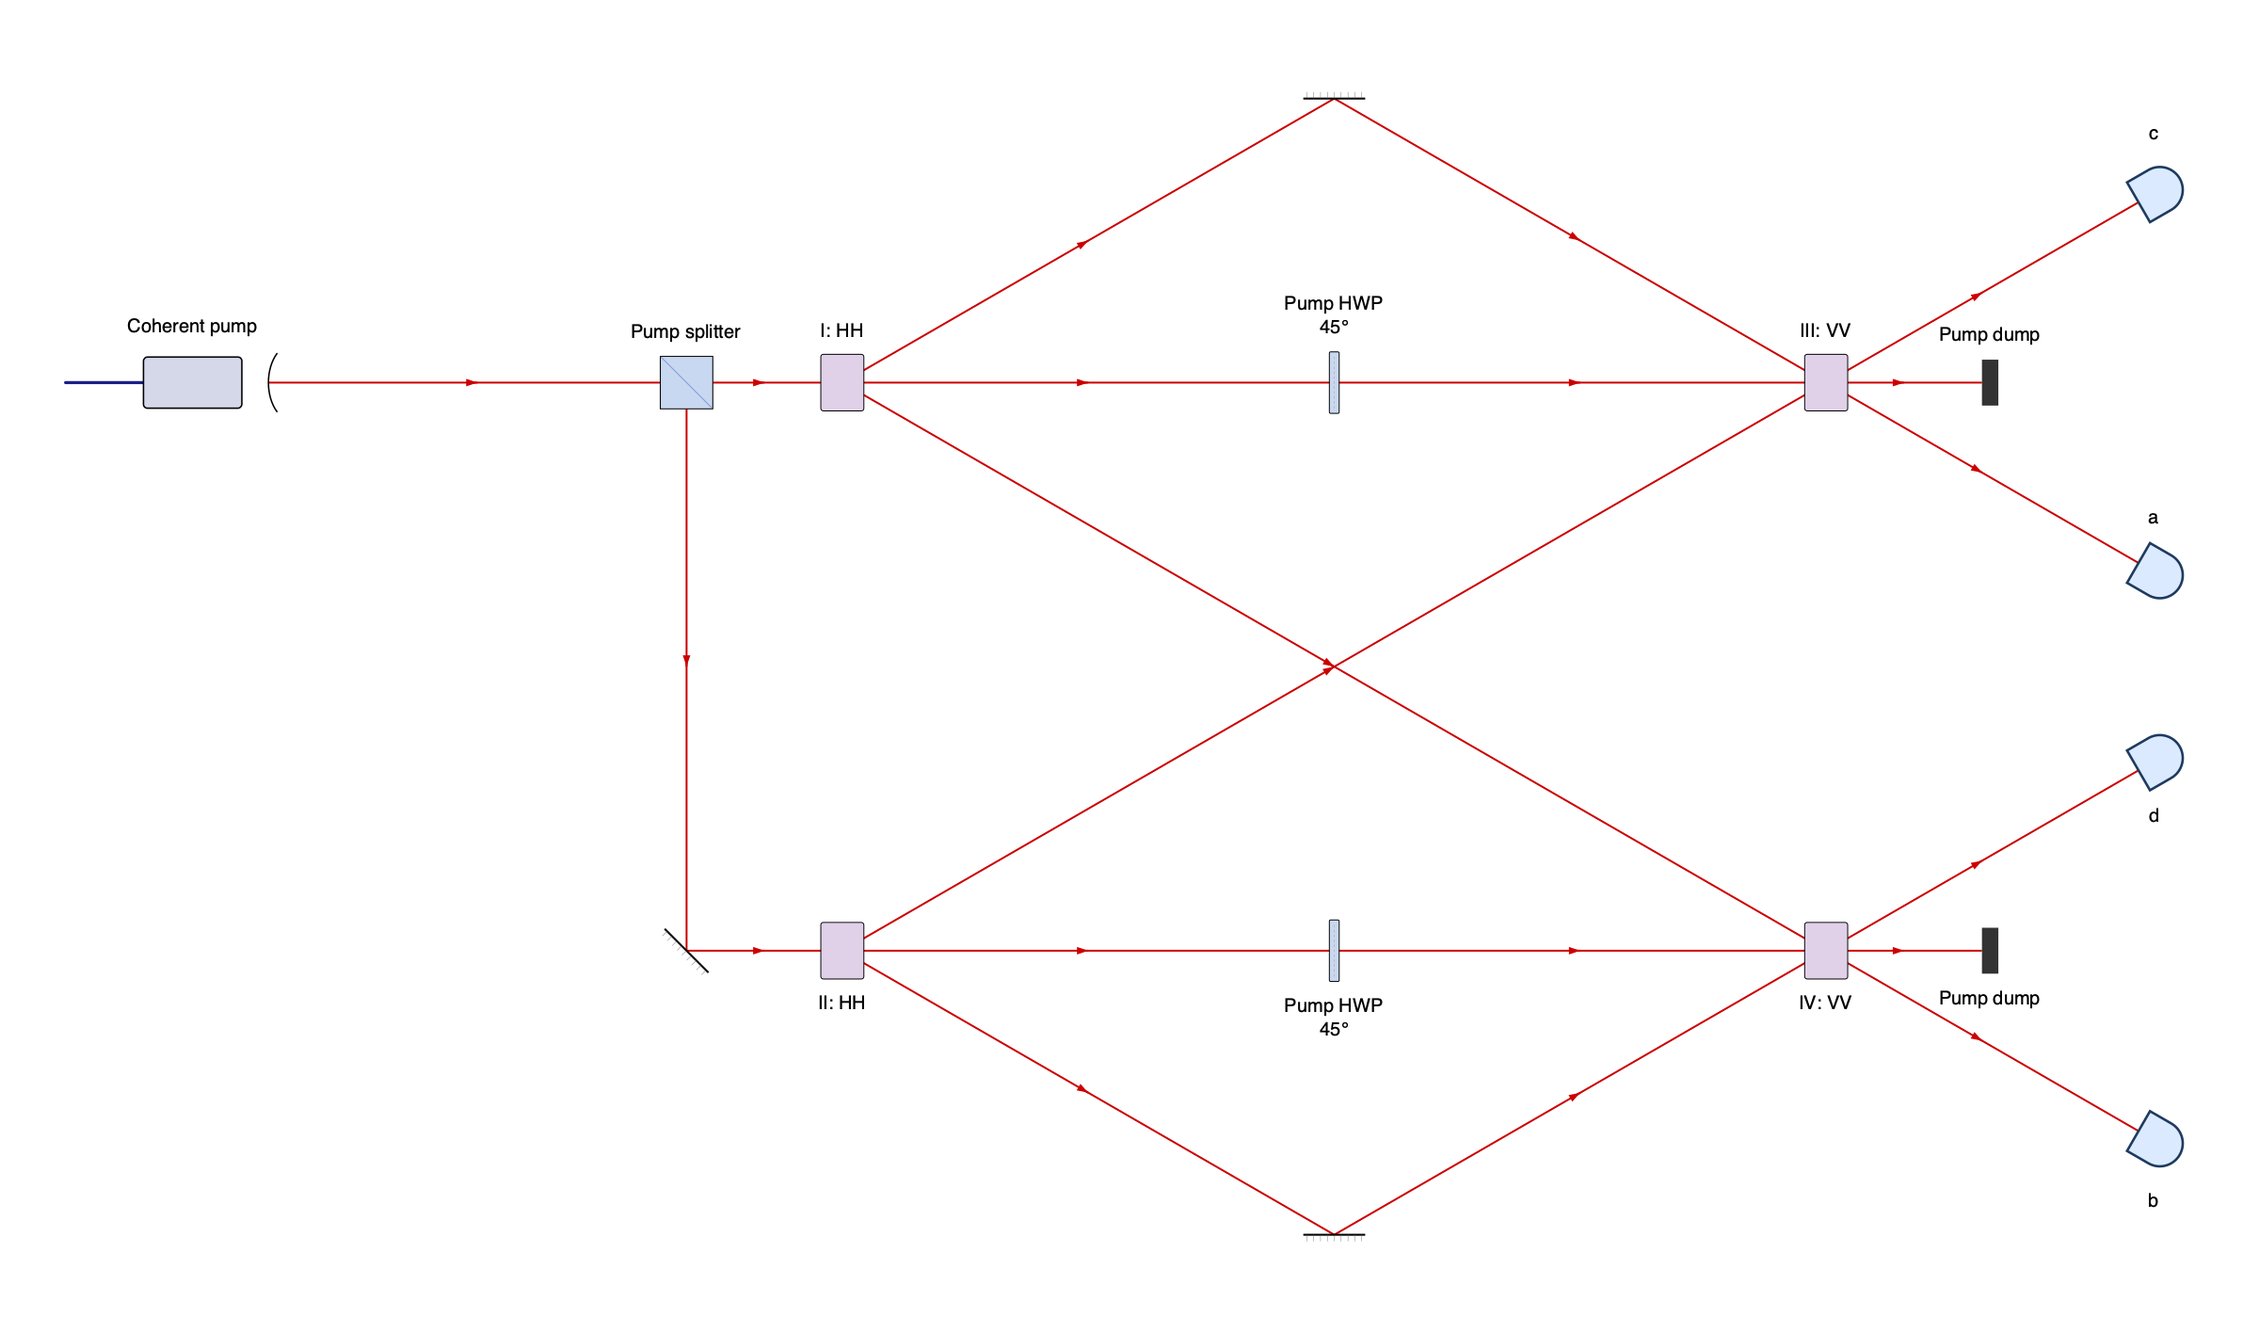
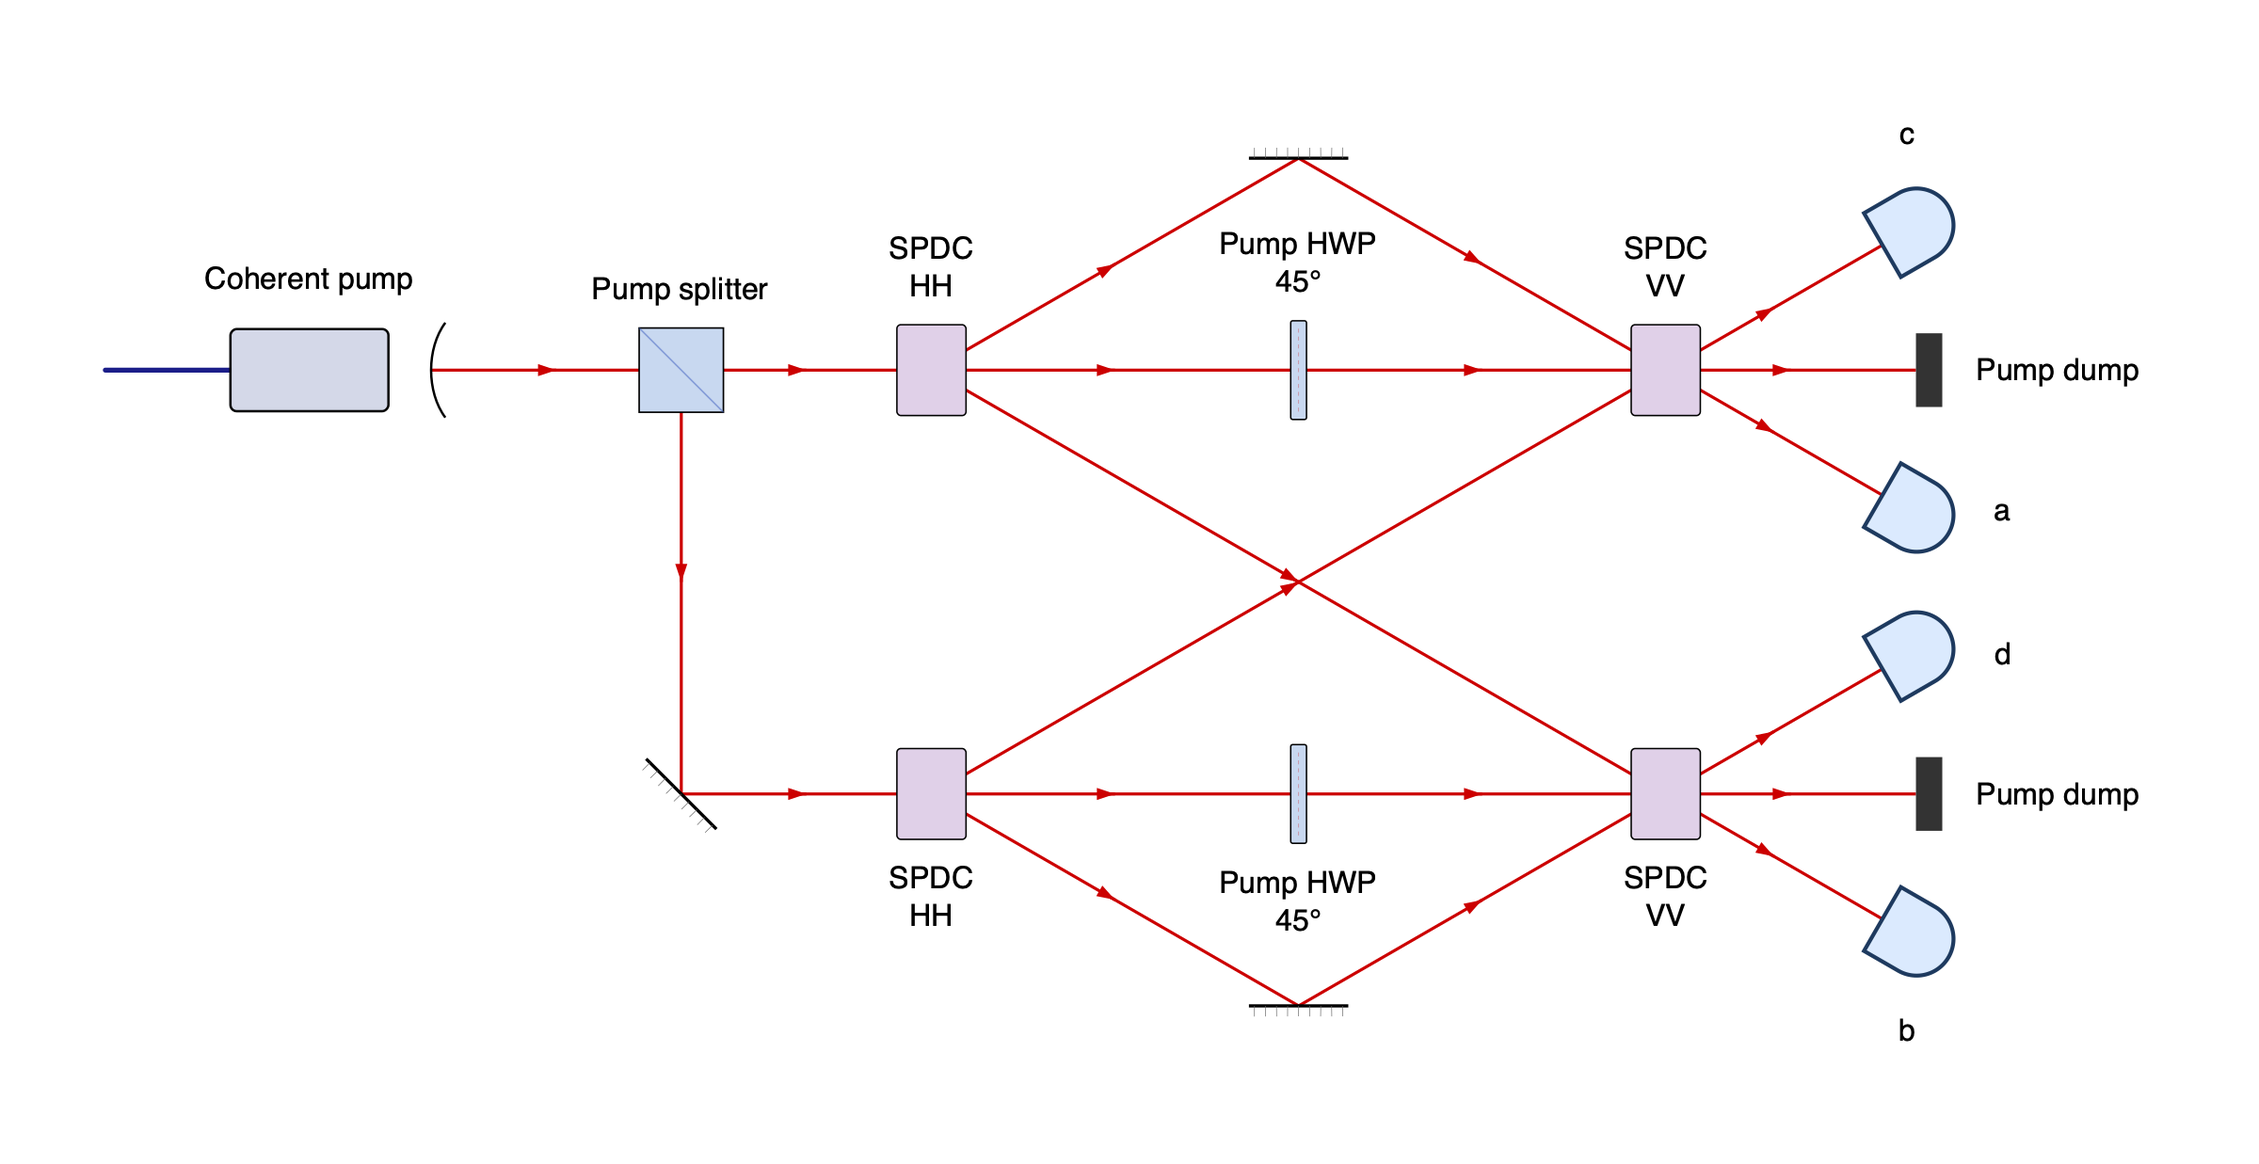
Lay out GHZ example automatically and separate overlapping optics

diff --git a/src/beampath/layout.py b/src/beampath/layout.py
@@ -305,6 +305,7 @@ def _root_origins(setup):
 def _solve_beams(nodes, connections, anchors, style, blocks=None):
     """Continuous spacing for one or more already oriented free-space sections."""
     solver = kiwi.Solver()
+    constraints = []
     xs = {ident: kiwi.Variable(f"{ident}.x") for ident in nodes}
     ys = {ident: kiwi.Variable(f"{ident}.y") for ident in nodes}
     lengths = {edge.id: kiwi.Variable(f"{edge.id}.length") for edge in connections}
@@ -313,9 +314,13 @@ def _solve_beams(nodes, connections, anchors, style, blocks=None):
              for ident, placed in block.placements.items()}
     footprints = {ident: footprint(node, poses.get(ident)) for ident, node in nodes.items()}
 
+    def add_constraint(constraint):
+        solver.addConstraint(constraint)
+        constraints.append(constraint)
+
     def required(constraint, context):
         try:
-            solver.addConstraint(constraint)
+            add_constraint(constraint)
         except kiwi.UnsatisfiableConstraint as exc:
             raise LayoutError(f"{context}: incompatible placement constraints") from exc
 
@@ -348,7 +353,7 @@ def _solve_beams(nodes, connections, anchors, style, blocks=None):
         if edge.distance is None:
             minimum = max(style.pitch, clearance)
             required(length >= minimum, context)
-            solver.addConstraint((length == minimum) | kiwi.strength.weak)
+            add_constraint((length == minimum) | kiwi.strength.weak)
         else:
             required(length == edge.distance, context)
         required(xs[target.id] + b[0] == xs[source.id] + a[0] + length * d[0], context)
@@ -368,14 +373,52 @@ def _solve_beams(nodes, connections, anchors, style, blocks=None):
                 and aligned(inputs[0].direction, outputs[0].direction)
                 and len(incoming.get(node.id, [])) == len(outgoing.get(node.id, [])) == 1):
             a, b = incoming[node.id][0], outgoing[node.id][0]
-            solver.addConstraint((lengths[a.id] == lengths[b.id]) | kiwi.strength.medium)
+            add_constraint((lengths[a.id] == lengths[b.id]) | kiwi.strength.medium)
     solver.updateVariables()
 
-    placements = {}
-    for ident, node in nodes.items():
-        position = clean(xs[ident].value()), clean(ys[ident].value())
-        placements[ident] = PlacedOptic(node, position, translated(footprints[ident], position), poses.get(ident))
-    return placements
+    # Branches can bring nonadjacent optics together even when every connected
+    # pair has enough clearance. Separate colliding artwork by extending the
+    # available beam gaps, keeping all pins, distances, and headings required.
+    # Each accepted constraint permanently separates one pair, so this loop
+    # needs at most one refinement per pair of optics.
+    while True:
+        placements = {}
+        for ident, node in nodes.items():
+            position = clean(xs[ident].value()), clean(ys[ident].value())
+            placements[ident] = PlacedOptic(
+                node, position, translated(footprints[ident], position), poses.get(ident),
+            )
+        items = list(placements.values())
+        collision = next(((a, b) for index, a in enumerate(items) for b in items[index + 1:]
+                          if overlap(a.bounds, b.bounds)), None)
+        if collision is None:
+            return placements
+        a, b = collision
+        candidates = []
+        for axis, coordinates in enumerate((xs, ys)):
+            for first, second in ((a, b), (b, a)):
+                gap = first.bounds[axis + 2] - second.bounds[axis] + style.clearance
+                separation = (footprints[first.id][axis + 2]
+                              - footprints[second.id][axis] + style.clearance)
+                constraint = coordinates[second.id] - coordinates[first.id] >= separation
+                candidates.append((gap, constraint))
+        for _, constraint in sorted(candidates, key=lambda candidate: candidate[0]):
+            try:
+                add_constraint(constraint)
+            except kiwi.UnsatisfiableConstraint:
+                # A rejected inequality can leave Kiwi's internal tableau
+                # changed. Restore accepted constraints before trying another
+                # direction, otherwise a feasible alternative can also fail.
+                solver = kiwi.Solver()
+                for accepted in constraints:
+                    solver.addConstraint(accepted)
+                continue
+            solver.updateVariables()
+            break
+        else:
+            # The caller reports the existing artwork-overlap error when hard
+            # placement constraints leave no room to separate this pair.
+            return placements
 
 
 def _finish_free_space(setup, placements, style):

diff --git a/examples/ghz_path_identity.py b/examples/ghz_path_identity.py
@@ -1,7 +1,7 @@
 """Four-photon GHZ entanglement by path identity, using four degenerate SPDC sources.
 
-Sources I and II emit HH pairs into (a, b) and (c, d); III and IV emit VV
-pairs into (a, c) and (b, d). With coherent pumping, indistinguishable modes,
+The HH sources emit pairs into (a, b) and (c, d); the VV sources emit pairs
+into (a, c) and (b, d). With coherent pumping, indistinguishable modes,
 balanced pair amplitudes, and zero relative phase, postselecting one photon
 in each output gives (|HHHH⟩ + |VVVV⟩) / √2 in the low-gain regime.
 Pump waveplates rotate the polarization between the two source stages.
@@ -11,39 +11,31 @@ Based on the path-identity scheme in
 [Fig. 1 of the PyTheus paper](https://arxiv.org/pdf/2210.09980#page=6).
 """
 
-from math import sqrt
-
-from beampath import beam
 from beampath.components import HWP, beam_block, beamsplitter, detector, fiber_launch, mirror, spdc
 
-# Equal diagonals keep the two source stages symmetric.
-span = 1200
-height = span / (2 * sqrt(3))
-setup = beam(origin=(-700, -height)) >> fiber_launch("Coherent pump")
-split = setup >> beamsplitter("Pump splitter", turn="right")
+setup = fiber_launch("Coherent pump") >> beamsplitter("Pump splitter", turn="right")
 
-c1 = split.straight().append(spdc("I: HH", opening_angle=60), at=(0, -height)).end
-c2 = (split.reflect() >> mirror("", heading="east")).append(
-    spdc("II: HH", opening_angle=60), at=(0, height),
+hh_ab = (setup.straight() >> spdc("SPDC\nHH", opening_angle=60)).end
+hh_cd = (
+    setup.reflect() >> mirror("", heading="east") >> spdc("SPDC\nHH", opening_angle=60)
 ).end
-c3 = (c1.out("pump") >> HWP("Pump HWP\n45°")).append(
-    spdc("III: VV", opening_angle=60), at=(span, -height),
+vv_ac = (
+    hh_ab.out("pump") >> HWP("Pump HWP\n45°") >> spdc("SPDC\nVV", opening_angle=60)
 ).end
-c4 = (c2.out("pump") >> HWP("Pump HWP\n45°")).append(
-    spdc("IV: VV", opening_angle=60), at=(span, height),
+vv_bd = (
+    hh_cd.out("pump") >> HWP("Pump HWP\n45°") >> spdc("SPDC\nVV", opening_angle=60)
 ).end
 
 # Each first-stage photon continues through a second-stage crystal in the
 # same spatial mode as a possible VV photon. Crossings are not junctions.
-a = c1.out("signal").append(mirror("", heading=30), at=(span / 2, -2 * height))
-a.connect(c3.input("idler_in"))
-c1.out("idler").connect(c4.input("idler_in"))
-c2.out("signal").connect(c3.input("signal_in"))
-d = c2.out("idler").append(mirror("", heading=-30), at=(span / 2, 2 * height))
-d.connect(c4.input("signal_in"))
+a = hh_ab.out("signal") >> mirror("", heading=30)
+a.connect(vv_ac.input("idler_in"))
+hh_ab.out("idler").connect(vv_bd.input("idler_in"))
+hh_cd.out("signal").connect(vv_ac.input("signal_in"))
+d = hh_cd.out("idler") >> mirror("", heading=-30)
+d.connect(vv_bd.input("signal_in"))
 
-for crystal, y, outputs in ((c3, -height, ("c", "a")), (c4, height, ("d", "b"))):
+for crystal, outputs in ((vv_ac, ("c", "a")), (vv_bd, ("d", "b"))):
     crystal.out("pump") >> beam_block("Pump dump")
-    # Put all four detectors on one output plane, following the ±30° rays.
-    for port, turn, name in zip(("signal", "idler"), (-1, 1), outputs):
-        crystal.out(port).append(detector(name), at=(span + 400, y + turn * 400 / sqrt(3)))
+    for port, name in zip(("signal", "idler"), outputs):
+        crystal.out(port) >> detector(name)

diff --git a/tests/test_layout.py b/tests/test_layout.py
@@ -7,10 +7,11 @@ import pytest
 
 from beampath import (
     Artwork, ComponentDefinition, ComponentSpec, Geometry, HWP, LP, LayoutError,
-    Port, QWP, Setup, Style, beam, beamsplitter, component, fiber_launch, fiber_coupler, iris,
+    Port, QWP, Setup, Style, beam, beamsplitter, component, detector, fiber_launch, fiber_coupler, iris,
     mirror, register_component,
 )
 from beampath.layout import segment_intersects
+from beampath.geometry import overlap, rotate
 
 
 @pytest.mark.parametrize("direction", [0, 90, 180, 270, 31.7])
@@ -194,6 +195,54 @@ def test_position_hint_and_subpitch_explicit_distance():
     q = beam() >> iris()
     q.append(HWP(), at=(420, 0))
     assert q.layout().segments[0].length == pytest.approx(420)
+
+
+def parallel_detector_inputs(direction):
+    source = ComponentSpec(ComponentDefinition(
+        "small_source", "", Artwork((0, 0), (-5, -5, 5, 5),
+                                   svg='<svg xmlns="http://www.w3.org/2000/svg"/>'),
+        lambda p: Geometry((Port("in", "input"), Port("out", "output"))),
+    ))
+    drawing = Setup()
+    paths = [drawing.beam(direction, origin=rotate((0, y), direction)) >> source
+             for y in (0, 40)]
+    return drawing, paths
+
+
+@pytest.mark.parametrize("direction", [0, 90, 180, 270])
+@pytest.mark.parametrize("fixed,kind", [(None, None), (0, "distance"), (1, "distance"),
+                                       (0, "pin"), (1, "pin")])
+def test_overlapping_branch_optics_separate_without_changing_hard_constraints(direction, fixed, kind):
+    drawing, paths = parallel_detector_inputs(direction)
+    pins = [rotate((212, y), direction) for y in (0, 40)]
+    for index, path in enumerate(paths):
+        hints = {}
+        if index == fixed:
+            hints = {"at": pins[index]} if kind == "pin" else {"distance": 190}
+        path.append(detector(""), **hints)
+    before = drawing.optics, drawing.connections
+    result = drawing.layout()
+    targets = [result.placements[path.end.id] for path in paths]
+    assert not overlap(targets[0].bounds, targets[1].bounds, result.style.clearance)
+    lengths = [next(segment.length for segment in result.segments if segment.target == path.end.id)
+               for path in paths]
+    assert min(lengths) == pytest.approx(190)
+    assert max(lengths) > 190
+    if kind == "distance":
+        assert lengths[fixed] == pytest.approx(190)
+    elif kind == "pin":
+        assert targets[fixed].position == pytest.approx(pins[fixed])
+    assert (drawing.optics, drawing.connections) == before
+    for source, y in zip((drawing.optics[0], drawing.optics[1]), (0, 40)):
+        assert result.placements[source.id].position == pytest.approx(rotate((0, y), direction))
+
+
+def test_overlapping_branch_optics_with_fixed_distances_still_fail():
+    drawing, paths = parallel_detector_inputs(0)
+    for path in paths:
+        path.append(detector(""), distance=190)
+    with pytest.raises(LayoutError, match="artwork overlaps"):
+        drawing.layout()
 
 
 @pytest.mark.parametrize("hints", [{"distance": 10}, {"at": (0, 100)}, {"distance": 200, "at": (300, 0)}])

diff --git a/tests/test_examples.py b/tests/test_examples.py
@@ -158,18 +158,21 @@ def test_ghz_path_identity_postselects_only_hhhh_and_vvvv():
             target = nodes[edge.target]
         return target.spec.display_label
 
-    pairs, pump_roots = {}, set()
+    pairs, polarizations, pump_roots = {}, {}, set()
     for crystal in crystals:
-        pairs[crystal.spec.display_label] = frozenset(
+        pairs[crystal.id] = frozenset(
             detected_mode(crystal.id, mode) for mode in ("signal", "idler")
         )
+        polarizations[crystal.id] = crystal.spec.display_label.splitlines()[-1]
         node, port = crystal, "in"
         while (node.id, port) in incoming:
             node = nodes[incoming[node.id, port].source]
             port = node.spec.definition.default_input
         pump_roots.add(node.id)
-    assert pairs == {"I: HH": {"a", "b"}, "II: HH": {"c", "d"},
-                     "III: VV": {"a", "c"}, "IV: VV": {"b", "d"}}
+    assert {(polarizations[source], modes) for source, modes in pairs.items()} == {
+        ("HH", frozenset("ab")), ("HH", frozenset("cd")),
+        ("VV", frozenset("ac")), ("VV", frozenset("bd")),
+    }
     assert len(pump_roots) == 1
     assert nodes[pump_roots.pop()].spec.definition.name == "fiber_launch"
 
@@ -178,7 +181,7 @@ def test_ghz_path_identity_postselects_only_hhhh_and_vvvv():
     terms = []
     for first, second in combinations_with_replacement(pairs, 2):
         if pairs[first].isdisjoint(pairs[second]):
-            photons = {mode: source.split(": ")[1][0]
+            photons = {mode: polarizations[source][0]
                        for source in (first, second) for mode in pairs[source]}
             assert set(photons) == set("abcd")
             terms.append("".join(photons[mode] for mode in "abcd"))

diff --git a/docs/gallery.md b/docs/gallery.md
@@ -160,8 +160,8 @@ for channel, suffix, outward, inward, return_heading in (
 
 Four-photon GHZ entanglement by path identity, using four degenerate SPDC sources.
 
-Sources I and II emit HH pairs into (a, b) and (c, d); III and IV emit VV
-pairs into (a, c) and (b, d). With coherent pumping, indistinguishable modes,
+The HH sources emit pairs into (a, b) and (c, d); the VV sources emit pairs
+into (a, c) and (b, d). With coherent pumping, indistinguishable modes,
 balanced pair amplitudes, and zero relative phase, postselecting one photon
 in each output gives (|HHHH⟩ + |VVVV⟩) / √2 in the low-gain regime.
 Pump waveplates rotate the polarization between the two source stages.
@@ -173,42 +173,34 @@ Based on the path-identity scheme in
 ![ghz_path_identity diagram](../examples/images/ghz_path_identity.png)
 
 ```python
-from math import sqrt
-
-from beampath import beam
 from beampath.components import HWP, beam_block, beamsplitter, detector, fiber_launch, mirror, spdc
 
-# Equal diagonals keep the two source stages symmetric.
-span = 1200
-height = span / (2 * sqrt(3))
-setup = beam(origin=(-700, -height)) >> fiber_launch("Coherent pump")
-split = setup >> beamsplitter("Pump splitter", turn="right")
+setup = fiber_launch("Coherent pump") >> beamsplitter("Pump splitter", turn="right")
 
-c1 = split.straight().append(spdc("I: HH", opening_angle=60), at=(0, -height)).end
-c2 = (split.reflect() >> mirror("", heading="east")).append(
-    spdc("II: HH", opening_angle=60), at=(0, height),
+hh_ab = (setup.straight() >> spdc("SPDC\nHH", opening_angle=60)).end
+hh_cd = (
+    setup.reflect() >> mirror("", heading="east") >> spdc("SPDC\nHH", opening_angle=60)
 ).end
-c3 = (c1.out("pump") >> HWP("Pump HWP\n45°")).append(
-    spdc("III: VV", opening_angle=60), at=(span, -height),
+vv_ac = (
+    hh_ab.out("pump") >> HWP("Pump HWP\n45°") >> spdc("SPDC\nVV", opening_angle=60)
 ).end
-c4 = (c2.out("pump") >> HWP("Pump HWP\n45°")).append(
-    spdc("IV: VV", opening_angle=60), at=(span, height),
+vv_bd = (
+    hh_cd.out("pump") >> HWP("Pump HWP\n45°") >> spdc("SPDC\nVV", opening_angle=60)
 ).end
 
 # Each first-stage photon continues through a second-stage crystal in the
 # same spatial mode as a possible VV photon. Crossings are not junctions.
-a = c1.out("signal").append(mirror("", heading=30), at=(span / 2, -2 * height))
-a.connect(c3.input("idler_in"))
-c1.out("idler").connect(c4.input("idler_in"))
-c2.out("signal").connect(c3.input("signal_in"))
-d = c2.out("idler").append(mirror("", heading=-30), at=(span / 2, 2 * height))
-d.connect(c4.input("signal_in"))
+a = hh_ab.out("signal") >> mirror("", heading=30)
+a.connect(vv_ac.input("idler_in"))
+hh_ab.out("idler").connect(vv_bd.input("idler_in"))
+hh_cd.out("signal").connect(vv_ac.input("signal_in"))
+d = hh_cd.out("idler") >> mirror("", heading=-30)
+d.connect(vv_bd.input("signal_in"))
 
-for crystal, y, outputs in ((c3, -height, ("c", "a")), (c4, height, ("d", "b"))):
+for crystal, outputs in ((vv_ac, ("c", "a")), (vv_bd, ("d", "b"))):
     crystal.out("pump") >> beam_block("Pump dump")
-    # Put all four detectors on one output plane, following the ±30° rays.
-    for port, turn, name in zip(("signal", "idler"), (-1, 1), outputs):
-        crystal.out(port).append(detector(name), at=(span + 400, y + turn * 400 / sqrt(3)))
+    for port, name in zip(("signal", "idler"), outputs):
+        crystal.out(port) >> detector(name)
 ```
 
 [Source](../examples/ghz_path_identity.py)

diff --git a/docs/api.md b/docs/api.md
@@ -25,6 +25,7 @@ Most diagrams can start from the [examples](gallery.md). Import core tools from
   between ports; it cannot be used on a first component or a fiber connection.
   `at=(x, y)` pins a component reference point. The beam origin places its first
   optic. Pins and distances are required constraints; incompatible ones fail.
+  Automatic spacing can stretch free-space paths to separate overlapping optics.
   Use `rows()` for explicit stage boundaries; it preserves local pins and headings.
 - **Drawing:** crossings do not imply connections. Open ports have stubs, replaced
   when connected.
